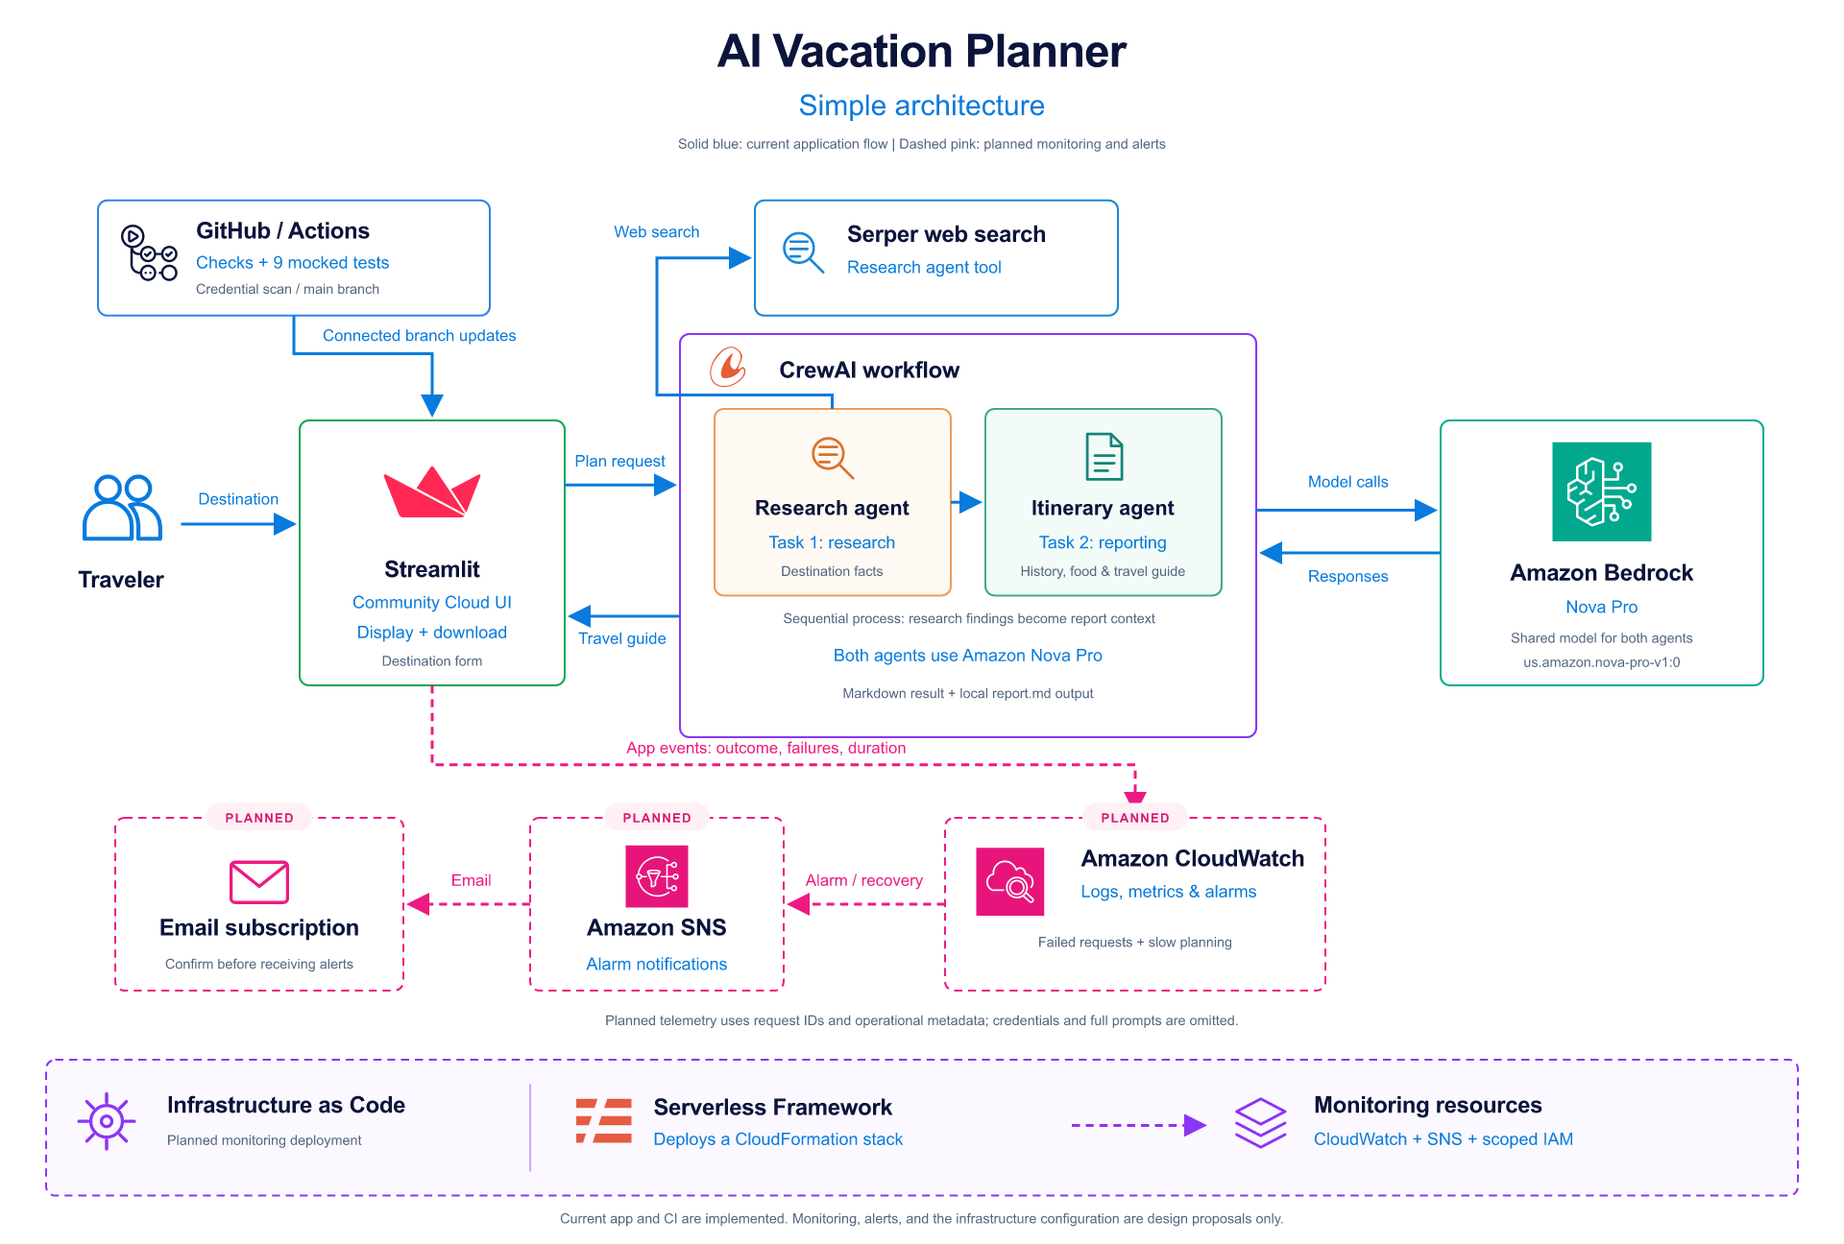
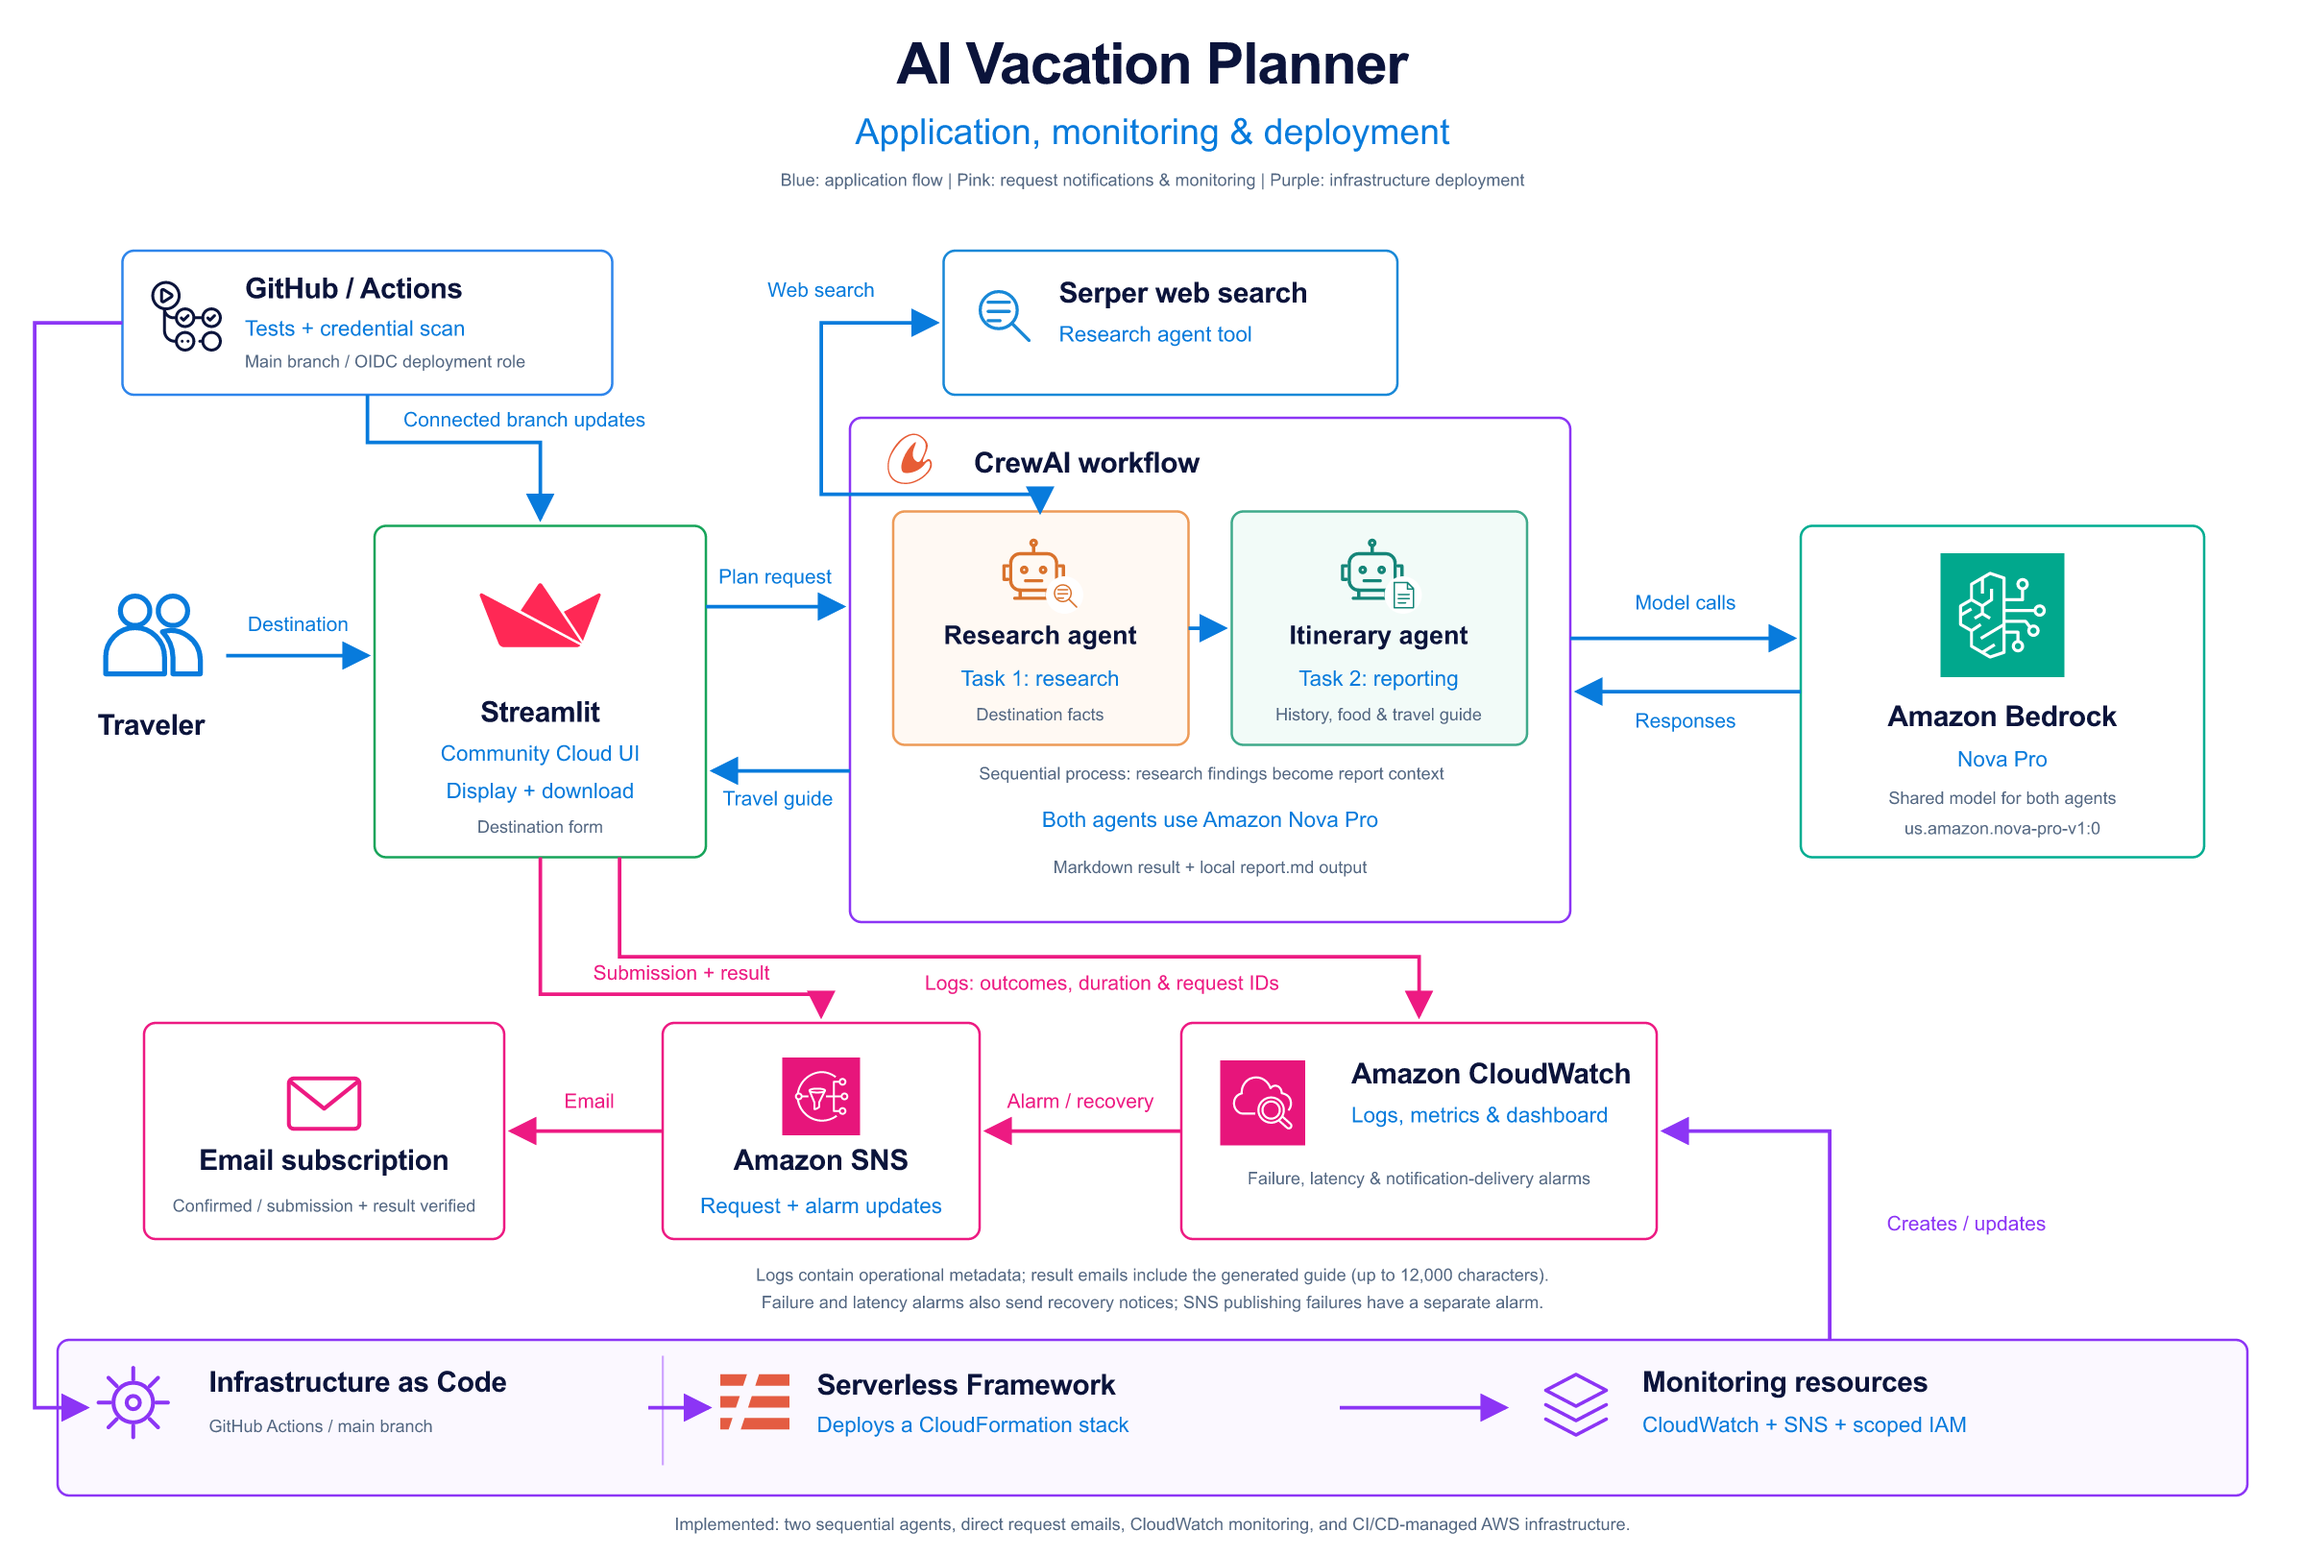
Align architecture diagram and documentation with deployed application

diff --git a/README.md b/README.md
@@ -24,7 +24,7 @@ A simple travel-planning app built with **Streamlit**, **CrewAI**, and **Amazon 
 
 [Open the full-size diagram](./docs/images/vacation-planner-architecture.png) | [Editable SVG](./architecture.svg).
 
-Solid blue connections show the current Streamlit, CrewAI, Serper, Bedrock, and GitHub delivery flow. Dashed pink connections and Planned labels show the proposed CloudWatch logs, metrics, alarms, SNS, and email alerts. The bottom strip shows the proposed Serverless Framework / CloudFormation monitoring deployment. Monitoring and infrastructure deployment are design proposals only; they have not been implemented by this diagram update.
+Enter a destination in Streamlit, and CrewAI uses Serper web search and Amazon Bedrock Nova Pro to create a downloadable travel guide. Each submission and result sends an SNS email and a CloudWatch log; GitHub Actions deploys the monitoring infrastructure using Serverless Framework and CloudFormation.
 
 ### How the parts connect
 
@@ -35,8 +35,11 @@ Solid blue connections show the current Streamlit, CrewAI, Serper, Bedrock, and 
 5. **Shared language model:** Both agents use Amazon Nova Pro through Amazon Bedrock, configured as `bedrock/us.amazon.nova-pro-v1:0`.
 6. **Results:** The crew returns its generated text to Streamlit for display and download. Session state retains the last completed plan across normal app reruns.
 7. **File output:** The reporting task also writes `report.md` to the application's host filesystem. The UI displays the returned crew result rather than rereading an older report file.
+8. **Request notifications:** Streamlit records each valid submission and its success/failure result. The monitoring module writes metadata to CloudWatch Logs and independently publishes to SNS; result emails include the generated guide, bounded to 12,000 characters.
+9. **Operational alerts:** CloudWatch metric filters feed the dashboard and alarms for repeated failures, generation duration, and notification-publishing failures. Alarms send additional SNS emails; failure and latency alarms also send recovery notices.
+10. **Infrastructure delivery:** GitHub Actions tests and scans changes on `main`, assumes the project's OIDC deployment role, and runs Serverless Framework to package, validate, deploy, and verify the CloudFormation monitoring stack. Streamlit updates separately from its connected GitHub branch.
 
-The dashed diagram connection shows the alternative CLI entry point. YAML files define the agents and tasks. Credentials are supplied separately through local or hosted environment configuration.
+The alternative CLI entry point uses the same two-agent CrewAI workflow; request monitoring shown in the diagram is invoked by the Streamlit UI. YAML files define the agents and tasks, and credentials are supplied separately through local or hosted environment configuration. Blue arrows show application requests and responses, pink arrows show implemented monitoring and notifications, and purple arrows show infrastructure deployment.
 
 ## 3. Technology stack
 
@@ -142,7 +145,7 @@ vacation-planner/
 
 The application now includes request instrumentation for submitted destinations and successful or failed generation results. The [monitoring configuration](vacation_planner/src/vacation_planner/monitoring_config.json) defines resource names, thresholds, retention, and notification behavior in one place. The Serverless Framework monitoring service and deployment verification are described in the [infrastructure guide](infrastructure/README.md).
 
-With the AWS stack deployed and its SNS subscription confirmed, the administrator receives an email for each valid submission and each final result. CloudWatch provides request logs, outcome counts, generation duration, a dashboard, and alarms. Notification delivery failures do not discard a generated travel plan. The diagram's planned monitoring branch remains a design overview until deployment and email verification have been recorded.
+The AWS monitoring stack is deployed, and the SNS subscription is confirmed. Submission and result emails have been verified through the live app. CloudWatch provides request logs, outcome counts, generation duration, a dashboard, and alarms; alarm emails are additional to the app's direct request emails. Notification delivery failures do not discard a generated travel plan.
 
 ## 8. GitHub Actions pipeline
 
@@ -158,4 +161,4 @@ Run the application tests locally from `vacation_planner/`:
 uv run --frozen python -m unittest discover -s ../tests -v
 ```
 
-Streamlit Community Cloud continues updating from its configured GitHub branch. After both checks pass on `main`, a separate job packages, validates, deploys, and verifies monitoring using Serverless Framework and a project-specific GitHub OIDC role. AWS deployment access keys are not stored in Actions. The role bootstrap and repository configuration are prerequisites, documented in the [infrastructure guide](infrastructure/README.md); monitoring has not yet been deployed. Pull requests cannot deploy. To require passing checks before a merge, configure a branch rule for `main` requiring **Python checks** and **Credential scan**.
+Streamlit Community Cloud continues updating from its configured GitHub branch. After both checks pass on `main`, a separate job packages, validates, deploys, and verifies monitoring using Serverless Framework and a project-specific GitHub OIDC role. AWS deployment access keys are not stored in Actions. Monitoring deployment and CloudWatch smoke events were verified by the [successful deployment run](https://github.com/rohitjain2021/vacation-planner/actions/runs/44394993302); role bootstrap and configuration are documented in the [infrastructure guide](infrastructure/README.md). Pull requests cannot deploy. To require passing checks before a merge, configure a branch rule for `main` requiring **Python checks** and **Credential scan**.

diff --git a/infrastructure/README.md b/infrastructure/README.md
@@ -55,7 +55,9 @@ Secrets and variables are scoped per repository or environment. Settings in anot
 
 Bootstrap parameters are grouped at the top of that independent template. Supply the existing provider ARN and the confirmed Streamlit IAM user ARN. Save the `DeploymentRoleArn` output as `AWS_DEPLOY_ROLE_ARN`; the pipeline derives the bucket name from the shared service/stage/region and assumed AWS account.
 
-**Bootstrap completed on November 18, 2026.** The owner explicitly approved a one-time exception to create the `vacation-planner-monitoring-prod-github-bootstrap` CloudFormation stack using the current AWS identity. AWS reported `CREATE_COMPLETE` for the dedicated role and private deployment bucket. The role ARN and selected runtime IAM username were saved as this repository's Actions variables, and the recipient was configured as an encrypted Actions secret. Bucket verification confirmed public-access blocking, AES256 encryption, and versioning. This exception covers the initial bootstrap only; monitoring deployment and subsequent updates still run through GitHub Actions. No other project's OIDC trust policy was broadened. The monitoring stack remains undeployed pending Serverless authentication configuration and CI verification.
+**Bootstrap completed on November 18, 2026.** The owner explicitly approved a one-time exception to create the `vacation-planner-monitoring-prod-github-bootstrap` CloudFormation stack using the current AWS identity. AWS reported `CREATE_COMPLETE` for the dedicated role and private deployment bucket. The role ARN and selected runtime IAM username were saved as this repository's Actions variables, and the recipient was configured as an encrypted Actions secret. Bucket verification confirmed public-access blocking, AES256 encryption, and versioning. This exception covers the initial bootstrap only; monitoring deployment and subsequent updates still run through GitHub Actions. No other project's OIDC trust policy was broadened.
+
+**Monitoring deployed and live emails verified.** The [successful GitHub Actions run](https://github.com/rohitjain2021/vacation-planner/actions/runs/44394993302) deployed `vacation-planner-monitoring-prod` to `CREATE_COMPLETE` and verified submission/completion smoke events in CloudWatch. The owner subsequently confirmed receiving both submission and result notifications from the live app, verifying the SNS subscription and application email flow. Full alarm and recovery scenarios have not been deliberately triggered as part of this verification.
 
 Serverless Framework v4 authentication remains separate from AWS OIDC. The API-metering repository's optional Serverless packaging job was skipped during the configuration review; its green test run is not evidence that a Serverless key is available here.
 
